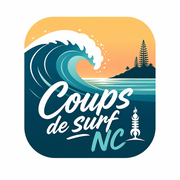
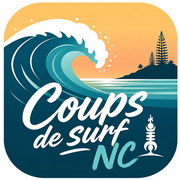
feat(previsions): tooltips tactiles, token auto-refresh, vent BOM+ECMWF+corrélation, icône PWA sans bordures
Suite à une nouvelle passe de retours utilisateur :

1. Icône PWA (icons/icon-*.png "any", non-maskable) recadrée pour remplir tout
   le cadre — le badge arrondi avait ~10-13% de marge blanche visible sur les
   home screens/launchers sans masquage OS. Les variantes -maskable (safe zone
   ~26%, correcte par spec) ne sont pas touchées.

2. Token meteo.nc : le renouvellement était DÉJÀ automatique (worker cron 5min
   + polling client 5s/12min/2-10min), mais l'UI pouvait rester sur "expiré"
   jusqu'à 10-12 min avant le prochain cycle programmé, laissant croire qu'un
   clic manuel était nécessaire. Ajout d'un retry immédiat (cooldown 45s) dès
   que l'expiration est détectée par le polling 5s existant.

3. Tooltips tactiles : title= natif ne se déclenche jamais au tap (mobile).
   Nouveau système ciblé sur les éléments cursor:help (marqueur "info only",
   jamais un vrai bouton) : tap/clic affiche une bulle positionnée et
   auto-masquée après 4,5s, sans intercepter les vrais boutons cursor:pointer.

4. Comparatif vent étendu à 5 modèles : ajout BOM (WaveWatch III régional,
   même serveur/grille que la houle BOM) et ECMWF IFS-HRES (via Windguru,
   id_model=117 — vent seul, cf. commentaire houle). Fix mislabeling : GFS
   utilisait best_match d'Open-Meteo (≠ GFS réel, vérifié : 7-13 kt best_match
   vs 3-6 kt gfs_seamless à la même heure) → forcé sur models=gfs_seamless.
   Résolutions précisées dans la légende (tooltips). Nouvel indicateur "modèle
[…]

diff --git a/previsions.html b/previsions.html
@@ -484,7 +484,10 @@ table.ft .night td{background:rgba(0,0,0,.15);}
     </div>
     <div style="display:flex;gap:12px;align-items:center;margin-bottom:8px;flex-wrap:wrap;">
       <div id="swell-cmp-now" style="display:flex;gap:6px;flex-wrap:wrap;flex:1;min-width:180px;"></div>
-      <div id="swell-cmp-rose" style="width:92px;height:92px;flex-shrink:0;" title="Direction de la houle (d'où elle vient) au créneau lu — suit le survol du graphe"></div>
+      <div style="display:flex;align-items:center;gap:8px;flex-shrink:0;">
+        <div id="swell-cmp-rose" style="width:92px;height:92px;flex-shrink:0;" title="Direction de la houle (d'où elle vient) au créneau lu — suit le survol du graphe"></div>
+        <div id="swell-cmp-periods" style="display:flex;flex-direction:column;gap:3px;" title="Période de chaque modèle au créneau lu"></div>
+      </div>
     </div>
     <div style="position:relative;width:100%;"><canvas id="swell-cmp" style="width:100%;display:block;cursor:crosshair;"></canvas></div>
     <div id="swell-cmp-readout" style="min-height:14px;margin-top:4px;font-size:10px;color:var(--muted);">← Survolez pour comparer hauteur/période des modèles disponibles</div>
@@ -2553,7 +2556,29 @@ setInterval(function() {
     }
   } catch(e) {}
   _updateTokenBtn(); // toujours rafraîchir le badge (détecte l'expiration du token en cours)
+  _autoRefreshTokenIfExpired(); // dès l'expiration détectée, retente tout de suite (pas d'attente du prochain cycle 2-12min)
 }, 5000);
+
+// Dès que le token passe invalide, retente worker+Supabase immédiatement au lieu
+// d'attendre le prochain cycle programmé (jusqu'à 10-12 min) — le renouvellement
+// EST déjà automatique côté worker (cron 5 min), ce correctif ferme juste la
+// fenêtre pendant laquelle l'UI restait bloquée sur « expiré » sans raison de
+// forcer un clic manuel. Cooldown 45s pour ne pas marteler en cas de vraie panne.
+var _tokAutoRetryAt = 0;
+async function _autoRefreshTokenIfExpired() {
+  if (_ncToken && _isTokenValid()) return; // rien à faire
+  var now = Date.now();
+  if (now - _tokAutoRetryAt < 45000) return;
+  _tokAutoRetryAt = now;
+  try {
+    var tok = await _loadTokenFromWorker();
+    if (tok && _adoptToken(tok, 'worker')) { loadForecast(currentSpot); return; }
+  } catch(e) {}
+  try {
+    var tok2 = await _loadTokenFromSupabase();
+    if (tok2 && _adoptToken(tok2, 'supabase')) loadForecast(currentSpot);
+  } catch(e) {}
+}
 
 // 2. Polling Worker : toutes les 12min — source autonome (priorité sur Supabase)
 (function _workerPoll() {
@@ -3195,8 +3220,12 @@ async function loadForecast(i) {
       + '&hourly=wave_height,wave_direction,wave_period,swell_wave_height,swell_wave_direction,swell_wave_period'
       + ',wind_wave_height,secondary_swell_wave_height,secondary_swell_wave_direction,secondary_swell_wave_period,sea_surface_temperature'
       + '&models=ncep_gfswave025&forecast_days=10&timezone=GMT';
+    // models=gfs_seamless : même correctif que la houle — sans lui, best_match
+    // renvoie un vent différent du vrai GFS pour ce point (vérifié : 7.1/13.1/11.5 kt
+    // best_match vs 3.4/4.0/3.1 kt gfs_seamless à la même heure). Le comparatif
+    // vent doit vraiment comparer du GFS, pas un mélange best_match anonyme.
     var omWindUrl = 'https://api.open-meteo.com/v1/forecast?latitude=' + s.lat + '&longitude=' + s.lon
-      + '&hourly=wind_speed_10m,wind_direction_10m,wind_gusts_10m,visibility,cloud_cover,cloud_cover_low,cloud_cover_mid,cloud_cover_high,precipitation,temperature_2m&wind_speed_unit=kn&forecast_days=10&timezone=GMT';
+      + '&hourly=wind_speed_10m,wind_direction_10m,wind_gusts_10m,visibility,cloud_cover,cloud_cover_low,cloud_cover_mid,cloud_cover_high,precipitation,temperature_2m&wind_speed_unit=kn&models=gfs_seamless&forecast_days=10&timezone=GMT';
 
     // ─── FETCH (parallèle + rendu progressif — BONUS 3) ──────────────────────
     // Token non IP-bound : marine/météo en direct rpcache (ncFetch) ; marées/obs via ncGet
@@ -4073,19 +4102,24 @@ function _drawSwellCompare() {
   // PROPAGATION (même convention que svgArrow() ailleurs dans l'app : dir stockée
   // = provenance météo, +180° pour la flèche « où ça va »). Suit le survol du
   // graphe comme renderNowRow().
+  // Rose = direction seule (visuel). Période = liste à côté, pas sur les
+  // flèches — avec 5 modèles les vecteurs se chevauchent souvent (directions
+  // de houle proches) et du texte dessus aurait fait un pâté illisible
+  // (remarque de l'utilisateur en cours de route).
   function _drawSwellRose(atMs) {
     var el = document.getElementById('swell-cmp-rose');
+    var perEl = document.getElementById('swell-cmp-periods');
     if (!el) return;
-    if (!activeModels.length) { el.innerHTML = ''; return; }
-    var cx = 46, cy = 46, R = 34;
-    var svg = '<svg width="92" height="92" viewBox="0 0 92 92">';
+    if (!activeModels.length) { el.innerHTML = ''; if (perEl) perEl.innerHTML = ''; return; }
+    var S = 92, cx = S / 2, cy = S / 2, R = 34;
+    var svg = '<svg width="' + S + '" height="' + S + '" viewBox="0 0 ' + S + ' ' + S + '">';
     svg += '<circle cx="' + cx + '" cy="' + cy + '" r="' + R + '" fill="rgba(255,255,255,.02)" stroke="rgba(255,255,255,.12)" stroke-width="1"/>';
     [['N', 0], ['E', 90], ['S', 180], ['O', 270]].forEach(function(c) {
       var rad = (c[1] - 90) * Math.PI / 180;
       var lx = cx + (R + 9) * Math.cos(rad), ly = cy + (R + 9) * Math.sin(rad);
       svg += '<text x="' + lx + '" y="' + (ly + 3) + '" text-anchor="middle" font-size="8" fill="rgba(122,148,170,.7)" font-family="DM Sans,sans-serif">' + c[0] + '</text>';
     });
-    var any = false;
+    var any = false, periods = [];
     activeModels.forEach(function(m) {
       var p = nearest(series[m.key], atMs, 4 * 3600000);
       if (!p || p.dir == null) return;
@@ -4098,9 +4132,19 @@ function _drawSwellCompare() {
       svg += '<line x1="' + x1 + '" y1="' + y1 + '" x2="' + x2 + '" y2="' + y2 + '" stroke="' + m.col + '" stroke-width="2.2" stroke-linecap="round"/>';
       var ah = 5;
       svg += '<polygon points="' + x2 + ',' + y2 + ' ' + (x2 - ah * Math.cos(rad - 0.4)) + ',' + (y2 - ah * Math.sin(rad - 0.4)) + ' ' + (x2 - ah * Math.cos(rad + 0.4)) + ',' + (y2 - ah * Math.sin(rad + 0.4)) + '" fill="' + m.col + '"/>';
+      periods.push({ m: m, t: p.t });
     });
     svg += '</svg>';
     el.innerHTML = any ? svg : '<div style="font-size:8.5px;color:var(--faint);text-align:center;padding-top:36px;">Direction indisponible</div>';
+    if (perEl) {
+      perEl.innerHTML = periods.map(function(x) {
+        return '<div style="display:flex;align-items:center;gap:4px;">'
+          + '<span style="width:7px;height:7px;border-radius:50%;background:' + x.m.col + ';flex-shrink:0;"></span>'
+          + '<b style="color:var(--text);font-size:10px;">' + (x.t != null ? Math.round(x.t) + 's' : '—') + '</b>'
+          + '<span style="color:var(--faint);font-size:8.5px;">' + x.m.label + '</span>'
+          + '</div>';
+      }).join('');
+    }
   }
 
   if (!activeModels.length) {
@@ -7464,19 +7508,22 @@ async function _loadAromeWidget(wgId) {
   h += '<div id="arome-hover-bar" style="min-height:15px;margin-top:5px;font-size:10px;color:var(--muted);">← Survolez une colonne : détail du créneau + comparaison meteo.nc</div>';
   var initNC = new Date(j.init * 1000 + 11 * 3600000);
   h += '<div style="font-size:9px;color:var(--faint);padding:6px 2px 2px;">Run ' + String(initNC.getUTCDate()).padStart(2,'0') + '/' + String(initNC.getUTCMonth()+1).padStart(2,'0') + ' ' + String(initNC.getUTCHours()).padStart(2,'0') + 'h NC · ' + (j.model || '') + ' · <a href="https://www.windguru.cz/' + wgId + '" target="_blank" style="color:var(--accent);text-decoration:none;">windguru ↗</a></div>';
-  // Comparatif vent : mesures station (passé) vs AROME vs meteo.nc vs GFS (48h)
+  // Comparatif vent : mesures station (passé) vs AROME/meteo.nc/GFS/BOM/ECMWF
   h += '<div style="border-top:1px solid rgba(255,255,255,.06);margin-top:8px;padding-top:8px;">'
     + '<div style="display:flex;gap:10px;flex-wrap:wrap;align-items:baseline;font-size:9px;color:var(--muted);margin-bottom:4px;">'
     + '<b style="color:var(--text);font-size:10px;">🆚 Vent : mesuré vs modèles</b>'
     + '<span><span style="color:#3dba8a;font-weight:700;">━</span> mesures <span id="arome-cmp-st"></span></span>'
-    + '<span><span style="color:#4fa3c7;font-weight:700;">━</span> AROME 2.5</span>'
-    + '<span><span style="color:#e8a057;font-weight:700;">╌</span> meteo.nc</span>'
-    + '<span><span style="color:#a99ff8;font-weight:700;">╌</span> GFS</span>'
+    + '<span style="cursor:help;" title="AROME 2,5 km Nouvelle-Calédonie (Météo-France) — modèle régional haute résolution"><span style="color:#4fa3c7;font-weight:700;">━</span> AROME 2.5 ⓘ</span>'
+    + '<span style="cursor:help;" title="Météo-France — modèle officiel Nouvelle-Calédonie (régionalisé)"><span style="color:#e8a057;font-weight:700;">╌</span> meteo.nc ⓘ</span>'
+    + '<span style="cursor:help;" title="NOAA GFS (gfs_seamless, via Open-Meteo) — grille 0,25° (~28 km)"><span style="color:#a99ff8;font-weight:700;">╌</span> GFS ⓘ</span>'
+    + '<span style="cursor:help;" title="Bureau of Meteorology (Australie) — vent du modèle régional WaveWatch III, grille 0,125° (~14 km)"><span style="color:#e05c5c;font-weight:700;">╌</span> BOM ⓘ</span>'
+    + '<span style="cursor:help;" title="ECMWF IFS-HRES (via Windguru) — grille 0,09° (~9 km), le plus fin des modèles globaux ici"><span style="color:#7dd3fc;font-weight:700;">╌</span> ECMWF ⓘ</span>'
     + '<span><span style="color:#e8a057;font-weight:700;">○</span> meteo.nc passé (cache)</span>'
     + '<span><span style="color:#4fa3c7;font-weight:700;">○</span> AROME passé (cache)</span>'
     + '</div>'
+    + '<div id="arome-cmp-corr" style="font-size:9px;color:var(--faint);margin-bottom:6px;"></div>'
     + '<div id="arome-cmp-wrap" style="width:100%;"><canvas id="arome-cmp"></canvas></div>'
-    + '<div id="arome-cmp-readout" style="min-height:14px;margin-top:4px;font-size:10px;color:var(--muted);">← Survolez pour lire les 3 valeurs au même instant</div>'
+    + '<div id="arome-cmp-readout" style="min-height:14px;margin-top:4px;font-size:10px;color:var(--muted);">← Survolez pour lire les valeurs au même instant</div>'
     + '</div>';
   body.innerHTML = h;
   _aromeData = j;
@@ -7617,6 +7664,65 @@ function _aromeHoverInfo(info) {
   bar.innerHTML = parts.join(' <span style="color:rgba(255,255,255,.15);">·</span> ');
 }
 
+// Vent BOM (WaveWatch III régional, même serveur/grille que la houle BOM,
+// wnd_spd en m/s → kt). Wind guru IFS-HRES (id_model=117, vent seul, cf.
+// commentaire plus haut sur pourquoi ce modèle n'a pas de houle) — même
+// convention de fetch/parsing que _fetchBomWw3()/_fetchEcmwfWave().
+async function _fetchBomWind(spot) {
+  var ctrl = new AbortController();
+  var tt = setTimeout(function(){ ctrl.abort(); }, 10000);
+  try {
+    var latIdx = Math.max(0, Math.min(720, Math.round((45 - spot.lat) / 0.125)));
+    var lonIdx = Math.max(0, Math.min(1600, Math.round((spot.lon - 100) / 0.125)));
+    var dasR = await fetch(BOM_WW3_BASE + '.das', { signal: ctrl.signal });
+    var dasText = await dasR.text();
+    var epochM = dasText.match(/seconds since (\d{4})-(\d{2})-(\d{2}) (\d{1,2}):(\d{1,2}):(\d{1,2})/);
+    if (!epochM) return [];
+    var epochMs = Date.UTC(+epochM[1], +epochM[2]-1, +epochM[3], +epochM[4], +epochM[5], +epochM[6]);
+    var url = BOM_WW3_BASE + '.ascii?time[0:1:80],wnd_spd[0:1:80][' + latIdx + ':1:' + latIdx + '][' + lonIdx + ':1:' + lonIdx + ']';
+    var r = await fetch(url, { signal: ctrl.signal });
+    var text = await r.text();
+    function parseFlat(name) {
+      var mm = text.match(new RegExp(name + '\\[\\d+\\]\\s*\\n([^\\n]+)'));
+      return mm ? mm[1].split(',').map(function(s){ return parseFloat(s.trim()); }) : [];
+    }
+    function parseGrid(name) {
+      var mm = text.match(new RegExp(name + '\\.' + name + '\\[\\d+\\]\\[1\\]\\[1\\]([\\s\\S]*?)(?:\\n\\n|$)'));
+      if (!mm) return [];
+      var out = [], lineRe = /\[(\d+)\]\[0\],\s*([\-\d.]+)/g, lm;
+      while ((lm = lineRe.exec(mm[1]))) out[+lm[1]] = parseFloat(lm[2]);
+      return out;
+    }
+    var times = parseFlat('time'), spd = parseGrid('wnd_spd');
+    var pts = [];
+    for (var i = 0; i < times.length; i++) {
+      if (spd[i] == null || isNaN(spd[i])) continue;
+      pts.push({ ms: epochMs + times[i] * 1000, kt: spd[i] * 1.944 }); // m/s → kt
+    }
+    return pts;
+  } catch (e) { console.warn('[BOM wind]', e && e.message); return []; }
+  finally { clearTimeout(tt); }
+}
+async function _fetchEcmwfWind(spot) {
+  var wgId = typeof _wgIdForSpot === 'function' ? _wgIdForSpot(spot) : null;
+  if (!wgId) return [];
+  var ctrl = new AbortController();
+  var tt = setTimeout(function(){ ctrl.abort(); }, 10000);
+  try {
+    var r = await fetch('https://www.windguru.cz/int/iapi.php?q=forecast&id_model=117&id_spot=' + wgId, { signal: ctrl.signal });
+    if (!r.ok) return [];
+    var j = await r.json();
+    var f = j && j.fcst;
+    if (!f || !f.hours || !f.WINDSPD || !f.initstamp) return [];
+    var pts = [];
+    for (var i = 0; i < f.hours.length; i++) {
+      if (f.WINDSPD[i] != null) pts.push({ ms: f.initstamp * 1000 + f.hours[i] * 3600000, kt: f.WINDSPD[i] });
+    }
+    return pts;
+  } catch (e) { console.warn('[ECMWF wind]', e && e.message); return []; }
+  finally { clearTimeout(tt); }
+}
+
 // Mini-graphe comparatif : -24h de MESURES de la station associée au spot,
 // +48h d'AROME et de la prévision du tableau (meteo.nc ou GFS selon le mode).
 // C'est le juge de paix : on voit d'un coup d'œil quel modèle collait le mieux
@@ -7639,6 +7745,12 @@ async function _renderAromeCompare(j) {
   } catch(e) {}
   var stEl = document.getElementById('arome-cmp-st');
   if (stEl) stEl.textContent = stName ? '(' + stName + ')' : '(station indispo)';
+  // 1bis. BOM (Australie) et ECMWF (via Windguru) — mêmes sources que le
+  // comparatif houle, mais leurs champs vent respectifs.
+  var _spotForWind = SPOTS[currentSpot];
+  var _windExtra = await Promise.all([_fetchBomWind(_spotForWind), _fetchEcmwfWind(_spotForWind)]);
+  if (SPOTS[currentSpot] !== _spotForWind) return; // spot changé pendant l'attente réseau
+  var bomWind = _windExtra[0], ecmwfWind = _windExtra[1];
   // 2. Prévisions du tableau — meteo.nc ET GFS séparément et TOUJOURS les deux
   // quand disponibles (avant : une seule série suivant le toggle Hs actif, donc
   // meteo.nc disparaissait dès que le toggle était sur GFS — signalé par
@@ -7698,18 +7810,51 @@ async function _renderAromeCompare(j) {
   t0 = Math.max(t0, now - 8 * 24 * 36e5);
   function clip(a) { return a.filter(function(p) { return p.ms >= t0 && p.ms <= t1; }); }
   obs = clip(obs); pageNc = clip(pageNc); pageGfs = clip(pageGfs); aro = clip(aro); cachePts = clip(cachePts); aromeCachePts = clip(aromeCachePts);
+  bomWind = clip(bomWind); ecmwfWind = clip(ecmwfWind);
   var el2 = document.getElementById('arome-cmp-wrap'); // le volet a pu être re-rendu
   if (!el2 || (!aro.length && !obs.length)) { if (el2) el2.style.display = 'none'; return; }
   var W = el2.clientWidth || 600, H = 210; // agrandi : lisibilité avant tout
   var dpr = window.devicePixelRatio || 1;
   cv.width = W * dpr; cv.height = H * dpr; cv.style.width = W + 'px'; cv.style.height = H + 'px'; cv.style.cursor = 'crosshair';
   var ctx = cv.getContext('2d'); ctx.scale(dpr, dpr);
-  var allKt = [12].concat(obs.map(function(p){return p.kt;}), pageNc.map(function(p){return p.kt;}), pageGfs.map(function(p){return p.kt;}), aro.map(function(p){return p.kt;}), cachePts.map(function(p){return p.kt;}), aromeCachePts.map(function(p){return p.kt;}));
+  var allKt = [12].concat(obs.map(function(p){return p.kt;}), pageNc.map(function(p){return p.kt;}), pageGfs.map(function(p){return p.kt;}), aro.map(function(p){return p.kt;}), cachePts.map(function(p){return p.kt;}), aromeCachePts.map(function(p){return p.kt;}), bomWind.map(function(p){return p.kt;}), ecmwfWind.map(function(p){return p.kt;}));
   var maxKt = Math.max.apply(null, allKt) * 1.15;
   var padL = 26, padR = 6, padT = 10, padB = 18;
   function X(ms) { return padL + (ms - t0) / (t1 - t0) * (W - padL - padR); }
   function Y(kt) { return padT + (1 - kt / maxKt) * (H - padT - padB); }
   obs.sort(function(a,b){return a.ms-b.ms;}); pageNc.sort(function(a,b){return a.ms-b.ms;}); pageGfs.sort(function(a,b){return a.ms-b.ms;}); aro.sort(function(a,b){return a.ms-b.ms;});
+  bomWind.sort(function(a,b){return a.ms-b.ms;}); ecmwfWind.sort(function(a,b){return a.ms-b.ms;});
+
+  // Corrélation modèle ↔ mesures : biais moyen (modèle - obs) au plus proche
+  // point mesuré, sur toute la fenêtre passée où les deux existent. Répond à
+  // « indicateur du modèle le plus réaliste » — comparaison simple mais honnête
+  // (biais absolu moyen, pas une vraie corrélation statistique) sur les données
+  // déjà chargées, sans coût réseau supplémentaire.
+  function biasVsObs(pts) {
+    if (!obs.length || !pts.length) return null;
+    var diffs = [];
+    obs.forEach(function(o) {
+      var best = null, bd = 70 * 60000;
+      pts.forEach(function(p) { var df = Math.abs(p.ms - o.ms); if (df < bd) { bd = df; best = p; } });
+      if (best) diffs.push(Math.abs(best.kt - o.kt));
+    });
+    return diffs.length >= 3 ? diffs.reduce(function(s,v){return s+v;},0) / diffs.length : null;
+  }
+  (function renderCorrBadge() {
+    var el = document.getElementById('arome-cmp-corr'); if (!el) return;
+    var cands = [
+      { label: 'AROME', bias: biasVsObs(aro) },
+      { label: 'meteo.nc', bias: biasVsObs(pageNc) },
+      { label: 'GFS', bias: biasVsObs(pageGfs) },
+      { label: 'BOM', bias: biasVsObs(bomWind) },
+      { label: 'ECMWF', bias: biasVsObs(ecmwfWind) }
+    ].filter(function(c) { return c.bias != null; });
+    if (cands.length < 2) { el.innerHTML = ''; return; } // pas assez de recul pour comparer
+    cands.sort(function(a, b) { return a.bias - b.bias; });
+    el.innerHTML = '🎯 Le plus proche des mesures récentes : <b style="color:var(--ok);">' + cands[0].label
+      + '</b> (écart moyen ' + cands[0].bias.toFixed(1) + ' kt) · '
+      + cands.slice(1).map(function(c) { return c.label + ' ' + c.bias.toFixed(1) + ' kt'; }).join(' · ');
+  })();
 
   function draw(hoverMs) {
     ctx.clearRect(0, 0, W, H);
@@ -7756,6 +7901,8 @@ async function _renderAromeCompare(j) {
     }
     drawSmooth(pageNc, 'rgba(232,160,87,.9)', 1.8, [6, 4]);
     drawSmooth(pageGfs, 'rgba(169,159,248,.9)', 1.8, [6, 4]);
+    drawSmooth(bomWind, 'rgba(224,92,92,.9)', 1.8, [2, 3]);
+    drawSmooth(ecmwfWind, 'rgba(125,211,252,.9)', 1.8, [2, 3]);
     // marqueurs sur les créneaux réels (3h) — les courbes sont interpolées
     ctx.fillStyle = 'rgba(232,160,87,.9)';
     pageNc.forEach(function(p) { ctx.beginPath(); ctx.arc(X(p.ms), Y(p.kt), 2, 0, Math.PI * 2); ctx.fill(); });
@@ -7793,13 +7940,16 @@ async function _renderAromeCompare(j) {
     var dNC = new Date(ms + 11 * 36e5); // affichage heure NC (convention +11h/getUTC*)
     var lbl = String(dNC.getUTCDate()).padStart(2, '0') + '/' + (dNC.getUTCMonth() + 1) + ' ' + String(dNC.getUTCHours()).padStart(2, '0') + 'h' + String(dNC.getUTCMinutes()).padStart(2, '0');
     var pObs = nearest(obs, ms), pAro = nearest(aro, ms), pNc = nearest(pageNc, ms, 105 * 60000), pGfs = nearest(pageGfs, ms, 105 * 60000), pCache = nearest(cachePts, ms), pAroCache = nearest(aromeCachePts, ms);
+    var pBom = nearest(bomWind, ms, 105 * 60000), pEcmwf = nearest(ecmwfWind, ms, 105 * 60000);
     ro.innerHTML = '<b style="color:var(--text);">' + lbl + '</b>'
       + (pObs ? ' · <span style="color:#3dba8a;">mesuré <b>' + Math.round(pObs.kt) + '</b> kt</span>' : '')
       + (pAro ? ' · <span style="color:#4fa3c7;">AROME <b>' + Math.round(pAro.kt) + '</b> kt</span>' : '')
       + (!pAro && pAroCache ? ' · <span style="color:#4fa3c7;">AROME (cache) <b>' + Math.round(pAroCache.kt) + '</b> kt</span>' : '')
       + (pNc ? ' · <span style="color:#e8a057;">meteo.nc <b>' + Math.round(pNc.kt) + '</b> kt</span>' : '')
       + (!pNc && pCache ? ' · <span style="color:#e8a057;">meteo.nc (cache) <b>' + Math.round(pCache.kt) + '</b> kt</span>' : '')
-      + (pGfs ? ' · <span style="color:#a99ff8;">GFS <b>' + Math.round(pGfs.kt) + '</b> kt</span>' : '');
+      + (pGfs ? ' · <span style="color:#a99ff8;">GFS <b>' + Math.round(pGfs.kt) + '</b> kt</span>' : '')
+      + (pBom ? ' · <span style="color:#e05c5c;">BOM <b>' + Math.round(pBom.kt) + '</b> kt</span>' : '')
+      + (pEcmwf ? ' · <span style="color:#7dd3fc;">ECMWF <b>' + Math.round(pEcmwf.kt) + '</b> kt</span>' : '');
   }
   function findNearestColIdx(ms) {
     if (!window._aromeColInfo) return null;
@@ -13586,6 +13736,36 @@ function ensoRender() {
     if (!m || !m.classList.contains('open')) return;
     if (!m.contains(e.target) && e.target !== fab) m.classList.remove('open');
   });
+
+  // Tooltips « ⓘ » tactiles : l'attribut title= natif ne se déclenche qu'au
+  // survol souris, jamais au tap sur mobile (signalé par l'utilisateur). Ciblé
+  // sur les éléments cursor:help (marqueur explicite « info seulement », jamais
+  // un vrai bouton cursor:pointer) pour ne jamais intercepter un clic normal.
+  (function() {
+    var _tipEl = null;
+    function hideTip() { if (_tipEl) { _tipEl.remove(); _tipEl = null; } }
+    document.addEventListener('click', function(e) {
+      var t = e.target && e.target.closest ? e.target.closest('[title]') : null;
+      if (t && t.getAttribute('title') && getComputedStyle(t).cursor === 'help') {
+        hideTip();
+        var txt = t.getAttribute('title');
+        var r = t.getBoundingClientRect();
+        _tipEl = document.createElement('div');
+        _tipEl.textContent = txt;
+        _tipEl.style.cssText = 'position:fixed;z-index:99999;max-width:min(280px,calc(100vw - 20px));'
+          + 'background:var(--deep);border:1px solid var(--accent);border-radius:8px;padding:8px 10px;'
+          + 'font-size:11px;line-height:1.4;color:var(--text);box-shadow:0 6px 20px rgba(0,0,0,.5);pointer-events:none;';
+        document.body.appendChild(_tipEl);
+        var top = r.bottom + 6, left = Math.min(r.left, window.innerWidth - _tipEl.offsetWidth - 10);
+        if (top + _tipEl.offsetHeight > window.innerHeight) top = r.top - _tipEl.offsetHeight - 6;
+        _tipEl.style.top = Math.max(6, top) + 'px'; _tipEl.style.left = Math.max(6, left) + 'px';
+        setTimeout(hideTip, 4500);
+        e.stopPropagation();
+      } else if (_tipEl && (!t || t.getAttribute('title') !== _tipEl.textContent)) {
+        hideTip();
+      }
+    });
+  })();
 </script>
 </body>
 </html>
